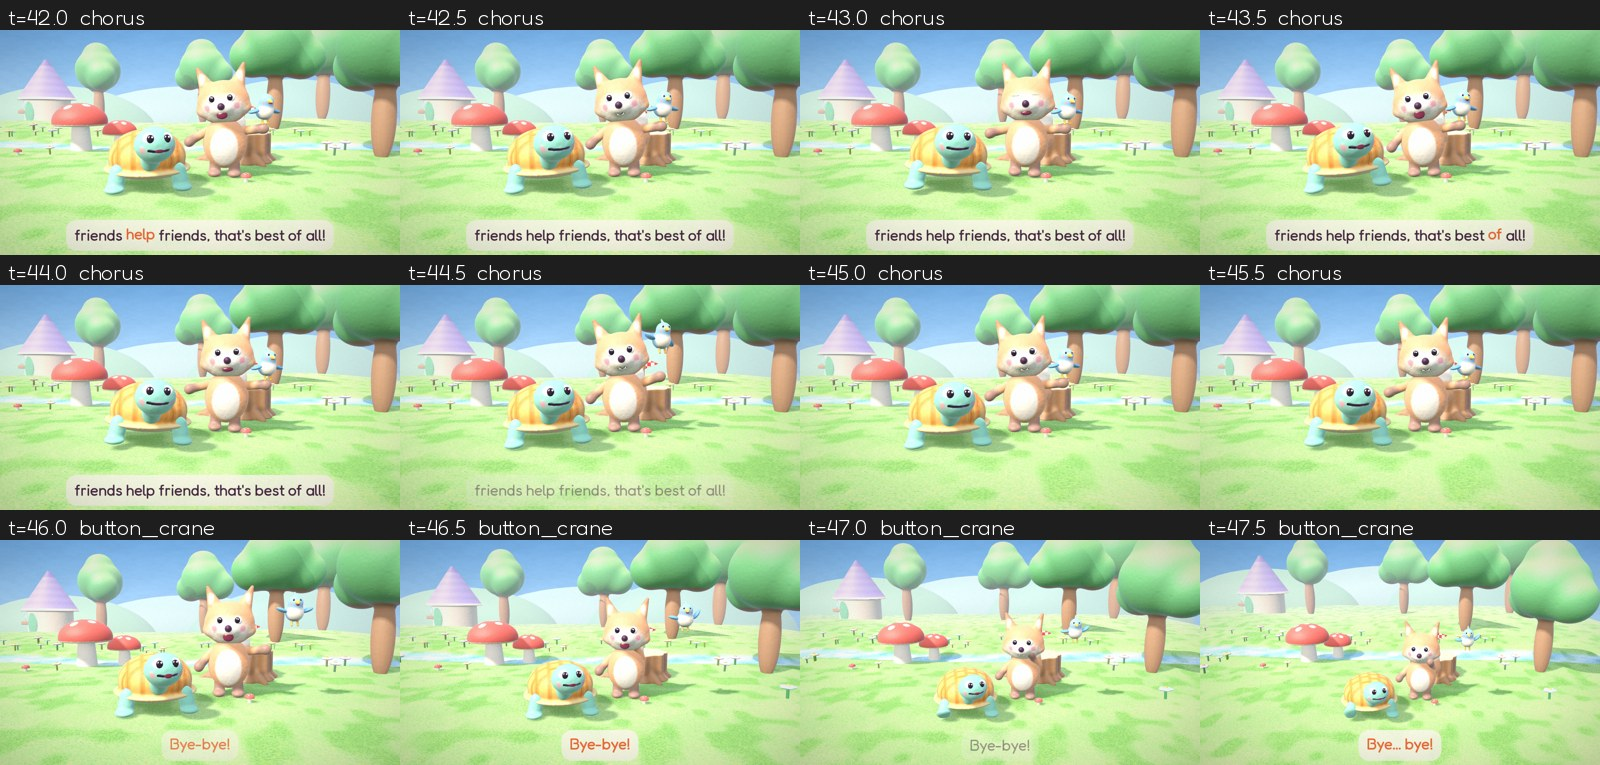
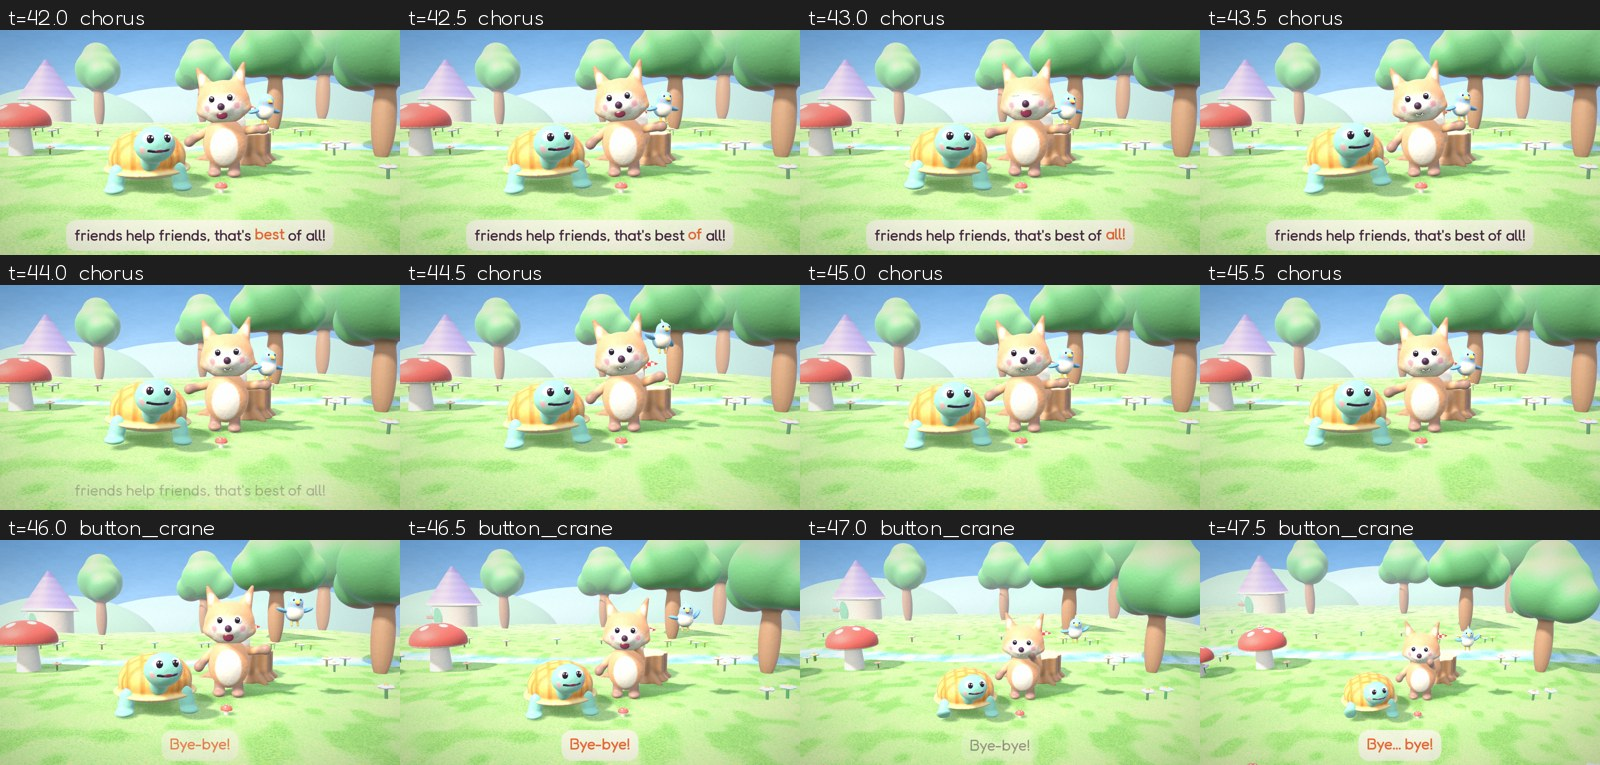
Fable 4: restage for the real song timing (long course, fast dash, Bo passes the sleeper, shots no longer collapse)
Claude-Session: https://claude.ai/code/session_014V3fxhp9FCSDpE2UtNdN7a

diff --git a/batches/01-fables-friendship/fable-04-slow-and-steady-bo/code/render.py b/batches/01-fables-friendship/fable-04-slow-and-steady-bo/code/render.py
@@ -24,36 +24,36 @@ E4 = {k: Mesh(m) for k, m in D["ep4"].items()}
 MOUTH["bo"] = mouth_track("bo").tolist()
 
 # ---------------- world: a race course across open meadow, chalk line to the big stump ----------------
-START = np.array([-3.6, 2.6])
+START = np.array([-7.64, 5.63])
 DIR = np.array([0.8, -0.6]); NRM = np.array([0.6, 0.8])      # along the course; across it (towards the front camera)
 YAW_RUN = math.atan2(DIR[0], DIR[1]); YAW_BACK = math.atan2(-DIR[0], -DIR[1])
 def C(s, lane): return START + DIR * s + NRM * lane
 LANE_T, LANE_B = -0.7, 1.2
 BO_S = 1.15
-STUMP_S = 1.3; STUMP = C(9.95, 0.55); STUMP_TOP = 0.55 * STUMP_S - 0.02; STUMP_ROT = 1.2
-S_TOUCH = 7.94                                               # Bo's nose on the stump
-RUN_S = 6.0                                                  # where Tumble skids to a stop
-NAP = C(8.4, -1.35); NAP_YAW = math.atan2(NRM[0], NRM[1])   # lying on his side, face to the course-side cameras, head up-course under the mushroom, head towards the finish
-MUSH1 = C(6.95, -3.5); MUSH1_S = 1.5                        # the giant mushroom his snores puff
-MUSH2 = C(8.3, -3.8); MUSH2_S = 1.05
+STUMP_S = 1.3; STUMP = C(15.0, 0.55); STUMP_TOP = 0.55 * STUMP_S - 0.02; STUMP_ROT = 1.2
+S_TOUCH = 13.0                                               # Bo's nose on the stump
+RUN_S = 11.0                                                 # where Tumble skids to a stop
+NAP = C(11.8, -1.35); NAP_YAW = math.atan2(NRM[0], NRM[1])   # lying on his side, face to the course-side cameras, head up-course under the mushroom, head towards the finish
+MUSH1 = C(10.35, -3.5); MUSH1_S = 1.5                        # the giant mushroom his snores puff
+MUSH2 = C(8.2, -3.8); MUSH2_S = 1.05
 PEB = C(0.25, -2.0)                                          # Pip's referee pebble
 PEB_TOP = 0.07 * 3.0
-FIN_T = C(6.5, 2.2)                                        # Tumble skids in here
+FIN_T = C(10.2, 2.2)                                        # Tumble skids in here
 FIN_LOOK = (NRM - DIR * 0.6) / np.linalg.norm(NRM - DIR * 0.6)   # the finish camera's side
 MSPOT = np.array([4.3, -0.85])                              # moral, chorus and button: Tumble here, Bo on his left
 BO_M = np.array([3.0, 0.1])
 def _on_course(x, z):
     q = np.array([x, z]) - START; sa, la = float(np.dot(q, DIR)), float(np.dot(q, NRM))
-    return -1.5 < sa < 11.5 and abs(la) < 3.0
+    return -1.5 < sa < 16.5 and abs(la) < 3.0
 FLOWERS = [f for f in make_flowers([], n=150, seed=41) if not _on_course(f[0], f[1])]
 BACK_TREES = [(6.5, -9.0, 1.8), (10.0, -14, 2.0), (3.0, -15, 1.7), (-4.0, -16, 1.8), (-12.0, -8.0, 1.8),   # clear of every camera line
-              (8.5, -3.5, 1.5), (-3.0, 9.5, 1.9), (-8.5, 7.0, 1.8), (13.0, -1.0, 1.7), (-1.0, 12.5, 1.9)]
+              (8.5, -3.5, 1.5), (-10.0, 15.0, 1.9), (-16.0, 8.0, 1.8), (13.0, -1.0, 1.7), (2.0, 17.0, 1.9)]
 def ground_at(p): return surf(p[0], p[1])
 def P3(p, y=0.0): return np.array([p[0], ground_at(p) + y, p[1]])
 
 # ---------------- Bo ----------------
 def bo_s_at(t):
-    return S_TOUCH * clampu(t, T.GO, T.BO_TOUCH)
+    return S_TOUCH * clampu(t, T.GO, T.BO_TOUCH) ** 1.15      # a steady plod that settles into its stride
 def bo(t):
     n = T.shot_at(t)[1]
     st = dict(p=C(0.0, LANE_B), yaw=YAW_RUN, walk=0.0, head=[0.0, 0.0], y=0.0, roll=0.0, legwave=0.0)
@@ -111,15 +111,22 @@ def draw_bo(draws, contacts, t, st):
     eyes(draws, Mh, BOD["eyes"]["centers"], BOD["eyes"]["r"], blink(t, 0.7, 3.9))
     mo = mouth_at("bo", t)
     if mo > 0.06:
-        draws.append((PR["mouth"], Mh @ trans(*BOD["mouth"]["c"]) @ scale(0.055, 0.042 * mo, 0.025), U(mat=2, bump=0.0), False))
+        draws.append((PR["mouth"], Mh @ trans(*BOD["mouth"]["c"]) @ scale(0.055, 0.028 * mo, 0.025), U(mat=2, bump=0.0), False))
     contacts.append((st["p"][0], st["p"][1], 0.85 * BO_S, 1.0))
     return R, Mh
 
 # ---------------- Tumble ----------------
+RUN_DASH = 10.5                                              # end of the dash; the last half metre is the skid
 def run_s(t):
-    """Tumble's distance along his lane while racing: a fast dash from the line, skidding to a stop at RUN_S"""
-    u = clampu(t, T.GO, T.RUN_END)
-    return RUN_S * (1 - (1 - u) ** 2)
+    """Tumble's distance along his lane while racing. The title shot is a cut away from the start, so each shot
+    restages the dash: start line 0 to 5, title shot 5 to 10, the side-tracking shot 4.5 to the skid at RUN_S."""
+    z0 = SH["zoom"][0]
+    if t < SH["title_wide"][0]: return 5.0 * clampu(t, T.GO, SH["title_wide"][0]) ** 1.6
+    if t < z0: return 5.0 + 5.0 * clampu(t, SH["title_wide"][0], z0)
+    v = clampu(t, z0, T.RUN_END - 0.5)
+    if t < T.RUN_END - 0.5: return 4.5 + (RUN_DASH - 4.5) * v
+    w = clampu(t, T.RUN_END - 0.5, T.RUN_END)
+    return RUN_DASH + (RUN_S - RUN_DASH) * (1 - (1 - w) ** 2)
 def tumble(t):
     st = tumble_base(t); n = T.shot_at(t)[1]
     p0 = C(0.0, LANE_T)
@@ -178,9 +185,9 @@ def tumble(t):
         st["head"][0] = -0.2 * u
         if T.SPIN[0] <= t < T.SPIN[1]:
             v = clampu(t, T.SPIN[0], T.SPIN[1])
-            st["y"] += 0.35 * math.sin(math.pi * min(v * 2.5, 1.0) / 2) * (1 - clampu(v, 0.85, 1.0))
-            ph = t * 2 * math.pi * 9
-            st["legs"] = [0.14 * max(0, math.sin(ph)), 0.14 * max(0, -math.sin(ph))]
+            st["y"] += 0.7 * math.sin(math.pi * min(v * 2.0, 1.0) / 2) * (1 - clampu(v, 0.8, 1.0))   # springs up and hangs in the air
+            ph = t * 2 * math.pi * 7
+            st["legs"] = [0.3 * max(0, math.sin(ph)), 0.3 * max(0, -math.sin(ph))]       # legs pump in mid-air
             st["arms"] = [[0.5, 1.2], [0.5, 1.2]]; st["pitch"] = -0.1
         elif t >= T.SPIN[1]:
             dd = t - T.SPIN[1]; s = 4.5 * dd ** 1.0
@@ -303,29 +310,31 @@ def camera(t):
         c = C(0.15, -0.45)
         return fit_cam(np.array([c[0], 0.8, c[1]]), yaw_of(DIR) - lerp(55, 62, e), 4, 3.0 if not WIDE else 4.6, 1.5, lift=0.05)
     if name == "title_wide":                                 # high behind the start, the whole course ahead
-        c = C(4.2, -0.4)
-        return fit_cam(np.array([c[0], 0.7, c[1]]), yaw_of(-DIR) + 22, 24, 3.6 if not WIDE else 5.6, 3.2 if not WIDE else 2.9, lift=0.0)
+        c = C(7.5, -0.4)
+        return fit_cam(np.array([c[0], 0.7, c[1]]), yaw_of(-DIR) + 22, 24, 6.0 if not WIDE else 9.0, 4.0 if not WIDE else 4.2, lift=0.0)
     if name == "zoom":                                       # side tracking, keeping pace with Tumble
+        z0 = SH["zoom"][0]; v = clampu(t, z0, T.RUN_END - 0.5)
+        lead = 0.7 - 1.5 * v + 1.2 * ease(clampu(t, T.RUN_END - 0.5, T.RUN_END + 0.3))   # he surges across the frame, the camera catches up at the skid
         p = np.array([st["x"], 1.15, st["z"]])
-        return fit_cam(p + np.array([DIR[0], 0, DIR[1]]) * 0.5, yaw_of(NRM) + 4, 6, 2.2, 1.6)
+        return fit_cam(p + np.array([DIR[0], 0, DIR[1]]) * lead, yaw_of(NRM) + 4, 6, 3.0 if not WIDE else 2.2, 1.6)
     if name == "bo_steps":                                   # ground level, close on Bo's face and feet, tracking
         p = P3(b["p"], 0.55)
         return fit_cam(p + np.array([DIR[0], 0, DIR[1]]) * 0.35, yaw_of(NRM) + 35, -2, 1.3, 1.0, lift=0.12)
-    if name == "show_off":                                   # over Tumble's shoulder, back down the course to tiny Bo
-        p = C(RUN_S - 1.6, 0.0)
-        return fit_cam(np.array([p[0], 1.0, p[1]]), yaw_of(DIR) - 28, 7, 2.2, 1.6, lift=0.05)
+    if name == "show_off":                                   # behind Tumble's shoulder, looking back up the course to tiny Bo
+        p = C(RUN_S, LANE_T)
+        return fit_cam(np.array([p[0], 1.35, p[1]]), yaw_of(DIR) + 52, 6, 1.9 if not WIDE else 2.4, 1.8, lift=0.05)
     if name == "lie_down":                                   # medium, from the far side of the course
         c = (C(RUN_S, LANE_T) + NAP) / 2 + DIR * 0.5
         return fit_cam(np.array([c[0], 1.0, c[1]]), yaw_of(NRM) + SG * lerp(8, 4, e), 16, 2.8 if not WIDE else 3.2, 2.0)
     if name == "snore":                                      # close on the snoring face and the mushroom
-        hd = NAP - DIR * 1.2
+        hd = NAP - DIR * 0.9
         return fit_cam(np.array([hd[0], 0.85, hd[1]]), yaw_of(NRM) + SG * lerp(12, 6, e), 12, 1.5, 1.1)
     if name == "bo_passes":                                  # low wide from behind the sleeper: Bo plods past beyond him
         c = (NAP - DIR * 0.3 + b["p"]) / 2
         return fit_cam(np.array([c[0], 0.7, c[1]]), yaw_of(NRM) + SG * lerp(20, 30, e), 20, 2.9 if not WIDE else 3.6, 2.0)
-    if name == "bo_near":                                    # low angle at the stump: Pip with the flag, Bo coming
-        c = (STUMP + b["p"]) / 2 + NRM * 0.1
-        return fit_cam(np.array([c[0], 0.95, c[1]]), yaw_of(-DIR) + 50, -4, 2.2, 1.4, lift=0.06)
+    if name == "bo_near":                                    # side-on at the stump: Bo plods in, nose to the stump, Pip waves the flag on top
+        c = (STUMP + b["p"]) / 2 + DIR * 0.3
+        return fit_cam(np.array([c[0], 0.85, c[1]]), yaw_of(NRM) - lerp(34, 22, e), 5, 2.7 if not WIDE else 3.6, 1.7, lift=0.1)
     if name == "wake":                                       # medium side: the jolt and the spinning legs
         c = NAP - DIR * 0.2
         return fit_cam(np.array([c[0], 1.1, c[1]]), yaw_of(NRM) - SG * 12, 34, 2.6 if not WIDE else 3.4, 2.1)
@@ -362,9 +371,9 @@ def build_draws(t):
     n = T.shot_at(t)[1]
     draws.append((E2["stump"], trans(STUMP[0], ground_at(STUMP) - 0.02, STUMP[1]) @ roty(STUMP_ROT) @ scale(STUMP_S), U(mat=0, bump=0.9, obj="stump"), True))
     sn = snore_amt(t) if SH["lie_down"][1] <= t < T.WAKE else 0.0
-    draws.append((E2["mushroom"], trans(MUSH1[0], ground_at(MUSH1) - 0.01, MUSH1[1]) @ scale(MUSH1_S, MUSH1_S * (1 + 0.13 * sn), MUSH1_S), U(mat=0, bump=0.6, obj="mush1"), True))
+    draws.append((E2["mushroom"], trans(MUSH1[0], ground_at(MUSH1) - 0.01, MUSH1[1]) @ scale(MUSH1_S, MUSH1_S * (1 + 0.22 * sn), MUSH1_S), U(mat=0, bump=0.6, obj="mush1"), True))
     draws.append((E2["mushroom"], trans(MUSH2[0], ground_at(MUSH2) - 0.01, MUSH2[1]) @ roty(1.0) @ scale(MUSH2_S), U(mat=0, bump=0.6, obj="mush2"), True))
-    for (s_, l_, sc_) in [(2.4, -3.2, 0.22), (5.2, -3.4, 0.2), (8.4, 2.6, 0.18), (-1.2, 2.4, 0.2)]:
+    for (s_, l_, sc_) in [(2.4, -3.2, 0.22), (5.6, -3.4, 0.2), (12.6, 3.0, 0.18), (-1.2, 2.4, 0.2), (8.8, 3.2, 0.2)]:
         q = C(s_, l_); draws.append((E2["mushroom"], trans(q[0], ground_at(q) - 0.01, q[1]) @ scale(sc_), U(mat=0, bump=0.6), True))
     draws.append((SC["stone"], trans(PEB[0], ground_at(PEB) - 0.01, PEB[1]) @ roty(0.4) @ scale(1.5, 3.0, 1.5), U(mat=0, bump=0.6, obj="pebble"), True))
     ls = C(0.0, 0.0) + DIR * 0.55                            # chalk start line just in front of their toes
@@ -386,10 +395,11 @@ def build_draws(t):
         for k in range(3):
             ph = ((t * 0.6 + k / 3.0) % 1.0)
             q = mouth + np.array([0, 0.25 + 0.7 * ph, 0]) + np.array([DIR[0], 0, DIR[1]]) * 0.2 * math.sin(ph * 6)
-            draws.append((PR["ball"], trans(*q) @ scale(0.035 + 0.05 * ph), U(mat=0, bump=0.0, tint=(0.82, 0.9, 1.0), tintMix=1.0), False))
-    for k, tg in enumerate([T.GO + 0.1, T.GO + 0.5, T.GO + 0.9, T.SPIN[0] + 0.1, T.SPIN[0] + 0.35, T.SPIN[1] + 0.05]):
+            draws.append((PR["ball"], trans(*q) @ scale(0.06 + 0.08 * ph), U(mat=0, bump=0.0, tint=(0.82, 0.9, 1.0), tintMix=1.0), False))
+    dash = list(np.arange(T.GO, SH["zoom"][0], 0.1)) + list(np.arange(SH["zoom"][0], T.RUN_END, 0.1)) + [T.SPIN[1] + 0.05]
+    for tg in dash:
         if 0 <= t - tg < 0.5:
-            fs = tumble(tg); puff(draws, np.array([fs["x"], surf(fs["x"], fs["z"]) + 0.15, fs["z"]]), tg, t, n=7, size=0.07, spread=0.7, dur=0.5, tint=(0.93, 0.88, 0.75), axis=(0, 0.4, 0))
+            fs = tumble(tg); puff(draws, np.array([fs["x"], surf(fs["x"], fs["z"]) + 0.15, fs["z"]]), tg, t, n=6, size=0.09, spread=0.6, dur=0.5, tint=(0.93, 0.88, 0.75), axis=(0, 0.4, 0))
     if n == "finish":
         puff(draws, np.array([FIN_T[0], surf(*FIN_T) + 0.15, FIN_T[1]]), T.FOX_ARRIVE, t, n=8, size=0.07, spread=0.8, dur=0.5, tint=(0.93, 0.88, 0.75), axis=(0, 0.4, 0))
         nose = C(S_TOUCH, LANE_B) + DIR * 1.25

diff --git a/batches/01-fables-friendship/fable-04-slow-and-steady-bo/code/timeline.py b/batches/01-fables-friendship/fable-04-slow-and-steady-bo/code/timeline.py
@@ -87,15 +87,23 @@ def word_times(word, section=None):
 _h, _s, _sa, _sb = sec("Hook"), sec("Sting"), sec("Setup A"), sec("Setup B")
 _pa, _pb, _tw, _m, _c, _bt = sec("Problem A"), sec("Problem B"), sec("Twist"), sec("Moral"), sec("Chorus"), sec("Button")
 LIE_SPLIT = _pa[0] + 1.0 * BAR               # the show-off, then lying down in the mushroom shade
-SNORE_SPLIT = _pb[0] + 1.0 * BAR             # close on the snore, then Bo plodding past
+SNORE_SPLIT = _pb[0] + 0.62 * BAR            # close on the snoring face (Pip's "Shh!" line), then Bo plodding past in the break
 _lt = line("Twist")
-NEAR_SPLIT = max(_tw[0] + 1.4, (word_times("tumble", "Twist") or [_tw[0] + 1.2])[0] + 0.45)   # Pip calls from the finish...
-WAKE = max(_lt["t1"] + 0.15, NEAR_SPLIT + 0.5)   # ...cut to Tumble, who hears it and sits up with a jolt
-WAKE_SPLIT = WAKE + 1.15                       # legs spin, he zooms off; cut to the finish
+def _word_end(L, key):
+    for w in L["words"]:
+        if re.sub(r"[^a-z]", "", w["w"].lower()) == key: return w["t1"]
+    return L["t0"] + 0.9
+# The sung line comes AFTER the instrumental race break (the song puts it at the end of the section), so the order is:
+# Bo reaches the stump in the break, Pip calls "Wake up, Tumble!", Tumble jolts on his name, cut, spin, cut, he skids in
+# behind Bo, "Well done, Bo!", then the moral. Every split is clamped so no shot gets a negative length.
+NEAR_SPLIT = min(_word_end(_lt, "tumble") + 0.1, _tw[1] - 2.6)   # Pip calls from the finish...
+WAKE = NEAR_SPLIT                              # ...cut to Tumble, who hears his name and jolts up
+WAKE_SPLIT = WAKE + 1.15                       # legs spin, cut to the finish
+FIN_END = max(WAKE_SPLIT + 1.45, _m[0])        # the moral shot starts when the good-sport cheer is done
 SHOTS = [(0.0, _h[1], "start_line"), (_s[0], _s[1], "title_wide"), (_sa[0], _sa[1], "zoom"), (_sb[0], _sb[1], "bo_steps"),
          (_pa[0], LIE_SPLIT, "show_off"), (LIE_SPLIT, _pa[1], "lie_down"), (_pb[0], SNORE_SPLIT, "snore"),
          (SNORE_SPLIT, _pb[1], "bo_passes"), (_tw[0], NEAR_SPLIT, "bo_near"), (NEAR_SPLIT, WAKE_SPLIT, "wake"),
-         (WAKE_SPLIT, _tw[1], "finish"), (_m[0], _m[1], "moral"), (_c[0], _c[1], "chorus"), (_bt[0], DURATION + 0.1, "button_crane")]
+         (WAKE_SPLIT, FIN_END, "finish"), (FIN_END, _m[1], "moral"), (_c[0], _c[1], "chorus"), (_bt[0], DURATION + 0.1, "button_crane")]
 def shot_at(t):
     for i, (a, b, n) in enumerate(SHOTS):
         if a <= t < b: return i, n, (t - a) / max(b - a, 1e-6), t - a
@@ -108,11 +116,11 @@ RUN_END = _sa[0] + 1.25 * BAR                  # Tumble skids to a stop past the
 EASY = (word_times("easy", "Problem A") or [_pa[0] + 0.6])[0]
 LIE = LIE_SPLIT + 1.0                          # lies down in the shade, eyes shut
 _lb = line("Problem B")
-SNORES = [_lb["t1"] + 0.35 + k * 1.15 for k in range(3) if _lb["t1"] + 0.35 + k * 1.15 < _pb[1] - 0.6]
-SPIN = (WAKE + 0.3, WAKE + 0.85)               # legs spin in the air before he takes off
-BO_TOUCH = WAKE_SPLIT + 0.4                    # Bo's nose touches the stump
-FOX_ARRIVE = WAKE_SPLIT + 0.85                 # Tumble zooms in a moment later and skids to a stop
-CHEER = FOX_ARRIVE + 0.35
+SNORES = [_lb["t1"] + 0.4 + k * 1.2 for k in range(3) if _lb["t1"] + 0.4 + k * 1.2 < _pb[1] - 0.6]
+SPIN = (WAKE + 0.25, WAKE + 0.85)              # legs spin in the air before he takes off
+BO_TOUCH = _tw[0] + 2.0                        # Bo's nose touches the stump in the race break, before Pip's call
+FOX_ARRIVE = WAKE_SPLIT + 0.45                 # Tumble zooms in a moment later and skids to a stop
+CHEER = max(FOX_ARRIVE + 0.2, _lt["t1"] + 0.55)   # after Pip's caption clears
 HIGH_FIVE = _c[1] - 0.9
 SPOKEN = [dict(file="s00_tumble", who="tumble", t0=SNORES[0] if SNORES else _pb[1] - 2.0, caption="Zzz... snore...", tags="[snoring] [sleepy]"),
           dict(file="s01_tumble", who="tumble", t0=WAKE, caption="Huh? Whoa!", tags="[startled]"),
